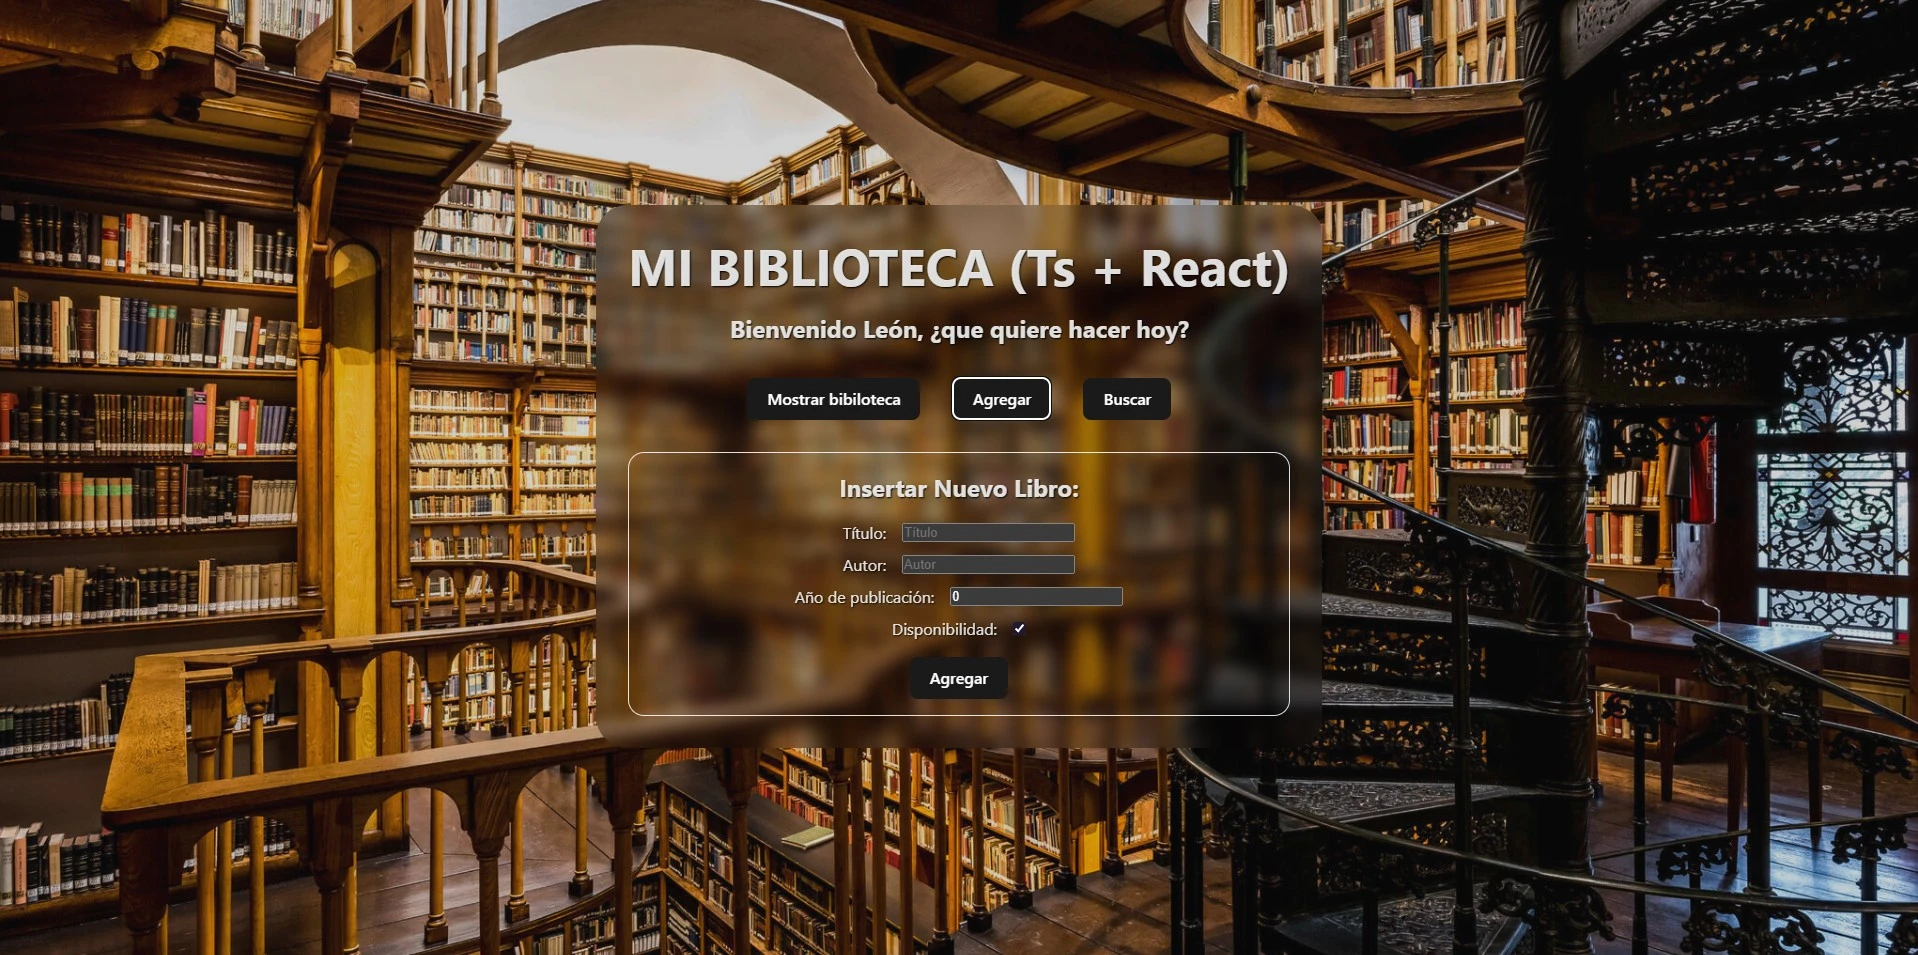
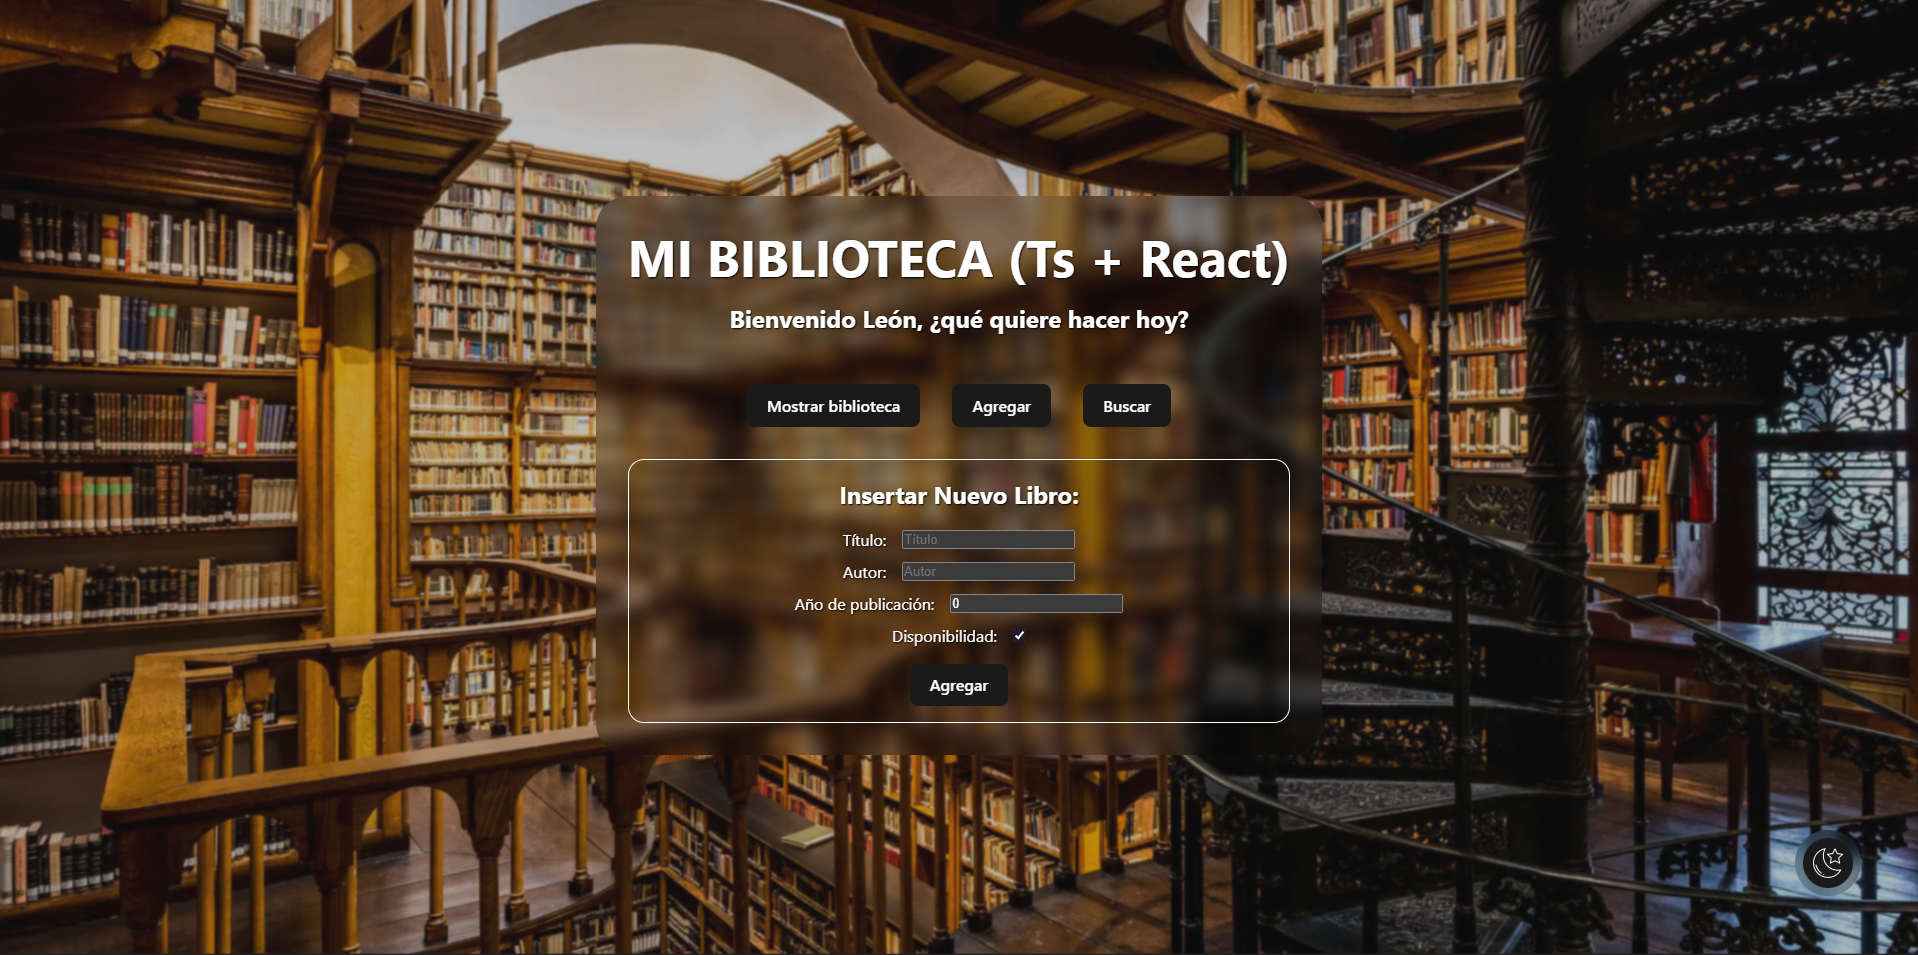
Imagenes optimizadas

diff --git a/src/components/cambio-tema/cambio-tema.tsx b/src/components/cambio-tema/cambio-tema.tsx
@@ -13,8 +13,8 @@
 
 import styles from "./cambio-tema.module.css";
 import { type Dispatch, type SetStateAction } from "react";
-import sol from "../../assets/sol.webp";
-import luna from "../../assets/luna.webp";
+import sol from "../../assets/luna.webp";
+import luna from "../../assets/sol.webp";
 
 export default function CambiarTema({ tema, setTema }: { tema: "light" | "dark"; setTema: Dispatch<SetStateAction<"light" | "dark">> }) {
   // Función que alterna el tema

diff --git a/src/index.css b/src/index.css
@@ -21,7 +21,7 @@
   --sombra-btns: 0 0 0 rgba(255, 255, 0, 0);
 }
 [theme="light"] body::before {
-  opacity: 0.8; /* capa clara visible */
+  opacity: 0.7; /* capa clara visible */
   filter: blur(0.06rem);
 }
 [theme="light"] body::after {
